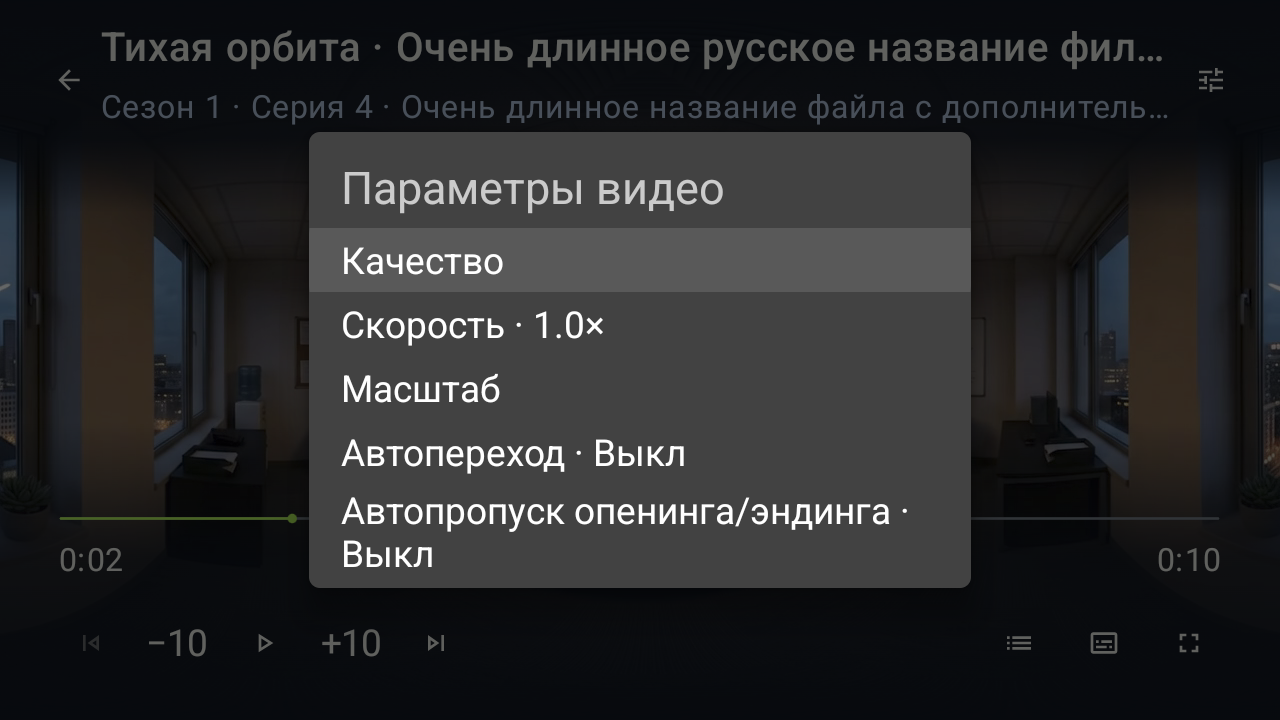
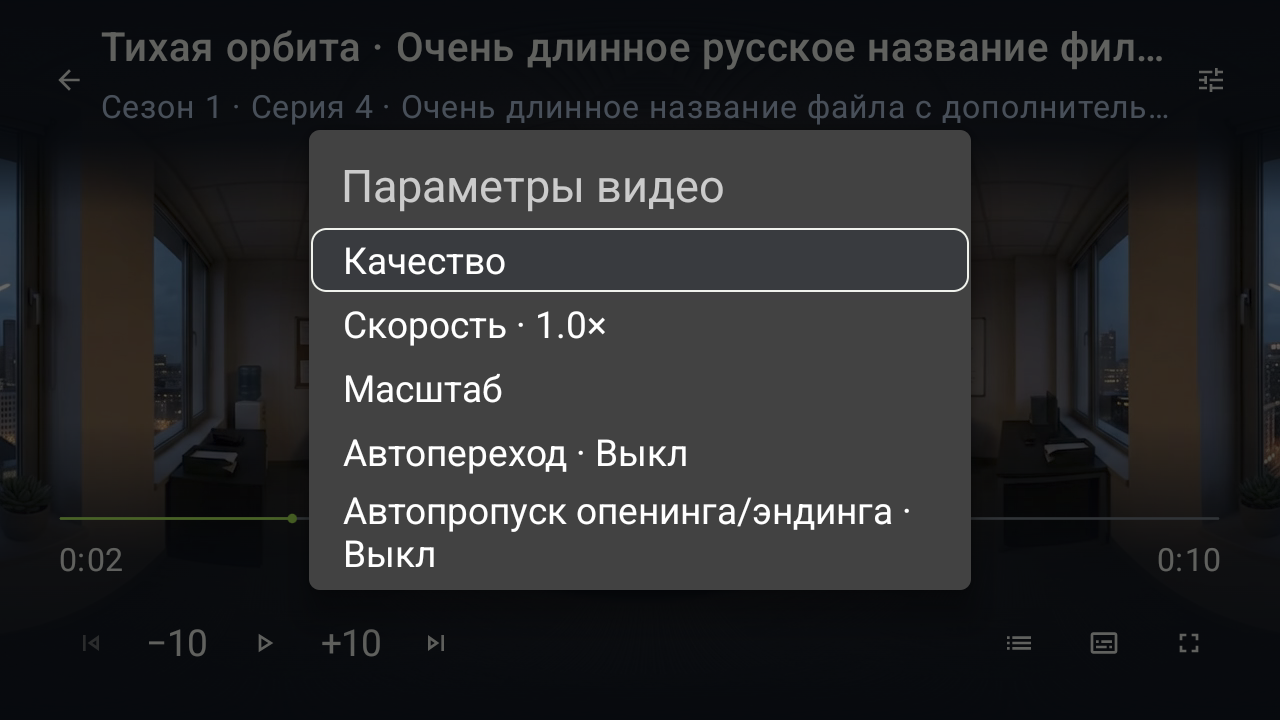
Refresh final native-dialog and multi-resolution acceptance evidence

diff --git a/docs/testing/issue-32-player/README.md b/docs/testing/issue-32-player/README.md
@@ -2,9 +2,9 @@
 
 17 November 2026. Implementation and local emulator evidence; independent review and the next signed stable release are still required.
 
-Code under test: `3449baa2a5cf6461e0912b1f0a9053bd9de87962`. Base: `16eb1e285cb1b7c01e7262d1d5eb0d236e80bb03` (`codex/issue-26-phone-tv`, PR #31). Initial clone was `1c66118`; it was fast-forwarded before editing. The later base updates touched release documentation/workflows, not this player UI. Published branch head is recorded by the PR and its checks; subsequent evidence commits do not change application code.
+Code under test: `91dcb110f96f94426c4110a762e06d2a96500504`. Base: `6b801abab2fe02b15d73aa5d33ff58d48002d618` (`codex/issue-26-phone-tv`, PR #31). Initial clone was `1c66118`; it was fast-forwarded before editing. The later base updates touched release documentation/workflows, not this player UI. Published branch head is recorded by the PR and its checks; subsequent evidence commits do not change application code.
 
-Only `TvPlayerControls.kt` changes production behavior visually. `TvPlaybackState`, `PlaybackActivity`, RemoteReceiver, MediaSession, history, server and the phone/TV contract are unchanged. Version numbers, signing and release workflows remain owned by the preceding #26 release at this stage. No changes were made in the shared project checkout or the active release checkout.
+Production changes are confined to `TvPlayerControls.kt` and a TV-only native ListView selector in `PlaybackActivity.kt` (12 lines plus two call sites). `TvPlaybackState`, RemoteReceiver, MediaSession, history, server and the phone/TV contract are unchanged. `PlaybackActivity.kt` overlaps PR #31 as a file; this patch only decorates existing dialogs after show(), preserving their listeners and managed playback flow. Version numbers, signing and release workflows remain owned by the preceding #26 release at this stage. No changes were made in the shared project checkout or the active release checkout.
 
 ## Approved target and comparison
 
@@ -14,7 +14,7 @@ The exact approved PNG and final contract were copied from `codex/player-design-
 
 Both panels use the same 16:9 comparison viewport. The approved original (1672×941) is preserved unchanged under `design/player-soft-v1/final/`; only the comparison presentation fits it to 1280×720. Runtime is an unmodified screenshot of the installed TV APK playing the bundled real MP4 through Media3. The fixture has a 10-second duration and two queue entries, so its actual time/progress and disabled Previous differ from the illustration.
 
-Visual inspection confirmed soft continuous gradients, a thin lime track and centered marker, compact light icons, no dock/dividers, no persistent Play/Pause fill, one light inset focus outline, and no transport/service action labels or tooltips. At the normalized 720p comparison the track is about y=550 versus y=552 in the reference; the Play/Pause center is about (264,643) versus (260,643). Native 48 dp targets intentionally remain larger than some illustrated glyphs. Native audio/video dialogs retain their existing platform presentation, selected checks and text.
+Visual inspection confirmed soft continuous gradients, a thin lime track and centered marker, compact light icons, no dock/dividers, no persistent Play/Pause fill, one light inset focus outline, and no transport/service action labels or tooltips. At the normalized 720p comparison the track is about y=550 versus y=552 in the reference; the Play/Pause center is about (264,643) versus (260,643). Native 48 dp targets intentionally remain larger than some illustrated glyphs. Native audio/video dialogs retain their existing platform presentation, selected checks and text, with the same inset light focus outline on the active row.
 
 ## Checks actually run
 
@@ -25,7 +25,7 @@ Visual inspection confirmed soft continuous gradients, a thin lime track and cen
 | Installed TV APK + ExoPlayer + real bundled MP4, `TvPlayerBehaviorTest` | 4/4 at native 1280×720 / 213 dpi; [log](installed-tv-720.txt) |
 | Design/semantics/dialog/media-key scenario, native 1920×1080 / 320 dpi | 1/1; [log](1080p.txt), actual [1920×1080 PNG](1080p/playing-pause-icon.png) |
 | Same scenario, 1280×720 / 213 dpi, font scale 2.0 and long Russian title/path | 1/1; [log](font200.txt), [frame](font200/player-play.png) |
-| TV debug APK + TV/playback instrumentation APK builds, TV lint, mobile Kotlin compile | Passed; [build log](build.log), [test build](test-build.log) |
+| TV debug APK + TV/playback instrumentation APK builds, TV lint, mobile Kotlin compile | Passed; [build log](build.log), [test build](test-build.log), [native-dialog affected checks](dialog-build.log) |
 
 The existing tests cover hidden arrows/OK, held OK, timeline preview/confirm/cancel/blur, Back exit, modal return focus, timeout blockers, automatic skip/next rules and queue boundaries. Real-video tests cover preview and single Back exit, media Next boundaries, recreation preserving paused position/speed, quality/audio/speed/fit preserving actual playback state, plus hidden OK and hardware PLAY/PAUSE/PLAY_PAUSE. The state machine remains responsible for the six-second timer even while paused.
 
